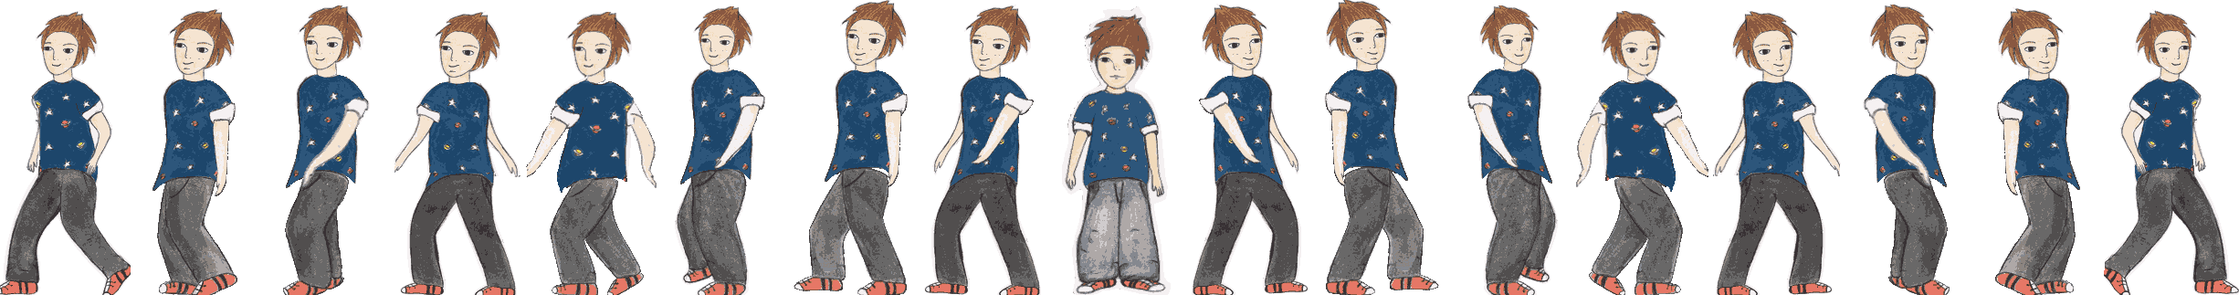
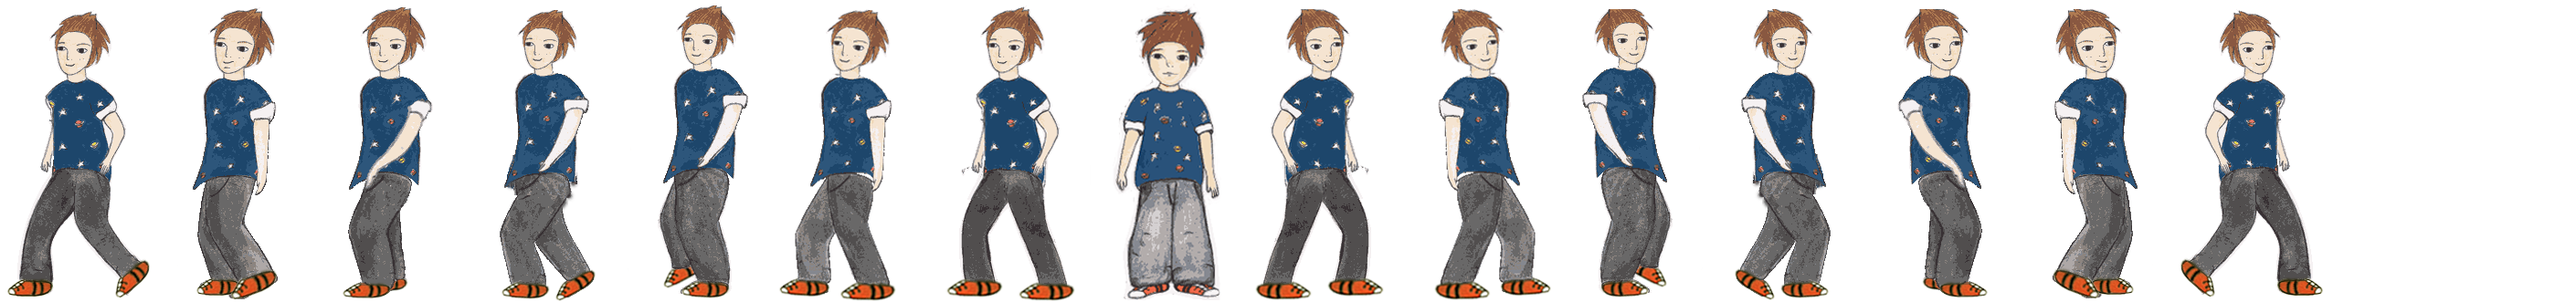
Cambiado sprite de emilio caminando

diff --git a/javascripts/model/emilio.js b/javascripts/model/emilio.js
@@ -10,24 +10,26 @@ Emilio = function(game, x, y) {
 	game.physics.arcade.enable(emilio);
 
 	// Our two animations, walking left and right.
-	emilio.animations.add('left', [ 0, 1, 2, 3, 4, 5, 6 ], 10, true);
-	emilio.animations.add('right', [ 8, 9, 10, 11, 12, 13, 14 ], 10,
-			true);
+	emilio.animations.add('move', [ 0, 1, 2, 3, 4, 5, 6, 7, 8, 9, 10, 11 ], 15, true);
 
 	emilio.body.gravity.y = 500;
 	emilio.body.collideWorldBounds = false;
-
+	emilio.anchor.setTo(0.5,0.5);
+	
 	emilio.jump = function() {
 		emilio.body.velocity.y = -250;
 	};
 
 	emilio.moveLeft = function() {
-		emilio.animations.play('left');
+		if (emilio.scale.x > 0 ) emilio.scale.x *=  -1;
+		
+		emilio.animations.play('move');
 		emilio.body.velocity.x = -400;
 	};
 
 	emilio.moveRight = function() {
-		emilio.animations.play('right');
+		if (emilio.scale.x < 0 ) emilio.scale.x *=  -1;
+		emilio.animations.play('move');
 		emilio.body.velocity.x = 400;
 	};
 

diff --git a/javascripts/game.js b/javascripts/game.js
@@ -1,7 +1,7 @@
 /**
  * Creamos el juego.
  */
-var game = new Phaser.Game(800, 600, Phaser.AUTO, 'container');
+var game = new Phaser.Game(800, 600, Phaser.CANVAS, 'container');
 
 /**
  * Aca se van a almacenar todos los estados del juego
